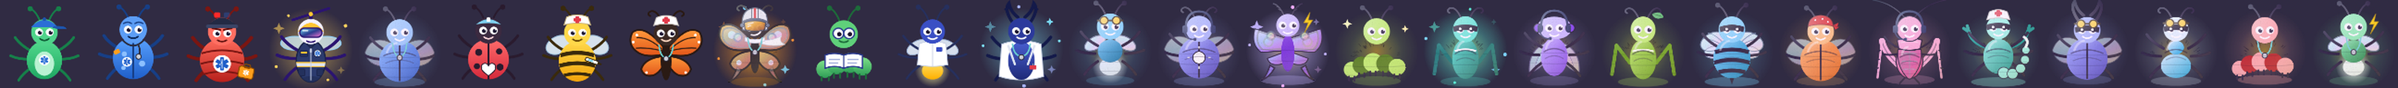
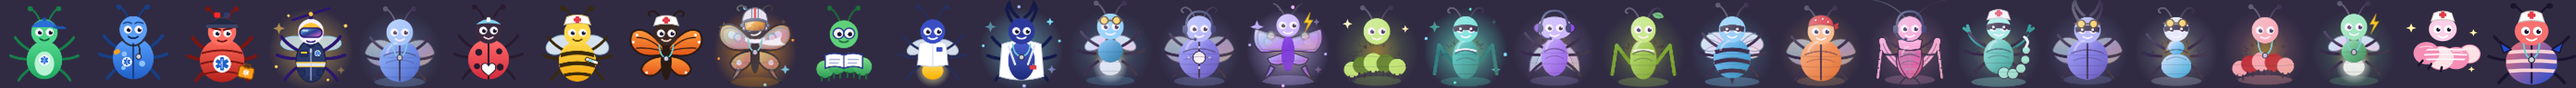
Instructor page: Nursing school and Paramedic to RN get their own bugs

diff --git a/instructor/index.html b/instructor/index.html
@@ -96,9 +96,9 @@ tr.clk{cursor:pointer}tr.clk:hover td{background:var(--surface2)}
 .dimtabs button.on{background:var(--teal);color:#06231f;border-color:var(--teal)}
 .chart .bar i.mid{background:var(--warn)}.chart .bar i.low{background:var(--bad)}
 .lvsum{display:flex;align-items:center;gap:12px;cursor:pointer;list-style:none}.lvsum::-webkit-details-marker{display:none}.lvsum>span:nth-child(2){flex:1;display:flex;flex-direction:column;gap:2px}.lvchg{font-weight:700;color:var(--accent,#7c5cff);font-size:14px}
-.lvimg{display:inline-block;width:56px;height:56px;flex:none;background:url(lvbugs.png) no-repeat;background-size:1512px 56px;border-radius:12px}
+.lvimg{display:inline-block;width:56px;height:56px;flex:none;background:url(lvbugs.png?v=29) no-repeat;background-size:1624px 56px;border-radius:12px}
 .lvgrp{margin:14px 0 4px;font-size:12px;font-weight:800;text-transform:uppercase;letter-spacing:.05em;color:var(--muted,#777)}.lvgrid{display:grid;grid-template-columns:repeat(auto-fill,minmax(112px,1fr));gap:8px}
-.lvt{display:flex;flex-direction:column;align-items:center;gap:2px;padding:8px 6px;border:1.5px solid var(--line,#ddd);border-radius:12px;background:transparent;color:inherit;font:inherit;cursor:pointer;text-align:center}.lvt b{font-size:13px}.lvt small{font-size:11px;color:var(--muted,#777)}.lvt[aria-pressed=true]{border-color:var(--accent,#7c5cff);box-shadow:0 0 0 2px var(--accent,#7c5cff) inset}.lvt .lvimg{width:64px;height:64px;background-size:1728px 64px}
+.lvt{display:flex;flex-direction:column;align-items:center;gap:2px;padding:8px 6px;border:1.5px solid var(--line,#ddd);border-radius:12px;background:transparent;color:inherit;font:inherit;cursor:pointer;text-align:center}.lvt b{font-size:13px}.lvt small{font-size:11px;color:var(--muted,#777)}.lvt[aria-pressed=true]{border-color:var(--accent,#7c5cff);box-shadow:0 0 0 2px var(--accent,#7c5cff) inset}.lvt .lvimg{width:64px;height:64px;background-size:1856px 64px}
 input[type=checkbox],input[type=radio]{width:auto;padding:0;flex:none}label:has(>input[type=checkbox]),label:has(>input[type=radio]){flex-direction:row;align-items:center;gap:10px}
 .boardsw{display:flex;flex-wrap:wrap;align-items:center;gap:6px 12px;margin:6px 0 4px;padding:12px 14px;border:1px solid var(--line,#ddd);border-radius:12px}.boardsw label{flex:1 1 220px;min-width:0;flex-direction:row;align-items:center;gap:12px;color:var(--ink);font-size:15px;cursor:pointer}.boardsw input{appearance:none;-webkit-appearance:none;position:relative;width:50px;height:30px;border-radius:99px;background:var(--line);border:0;padding:0;flex:none;cursor:pointer;transition:background .15s}.boardsw input::after{content:"";position:absolute;top:3px;left:3px;width:24px;height:24px;border-radius:50%;background:#fff;box-shadow:0 1px 3px rgba(0,0,0,.3);transition:transform .15s}.boardsw input:checked{background:var(--good,#16a34a)}.boardsw input:checked::after{transform:translateX(20px)}.boardsw input:focus-visible{outline:2px solid var(--accent);outline-offset:2px}.boardsw #boardSwMsg{flex:1 1 100%}
 .board td.rk{font-weight:700;width:46px}
@@ -1992,8 +1992,8 @@ body.embed .mxhead .adm{display:none}
     });
   })();
   /* class level picker */
-  var LV_ORDER = ["emt","aemt","paramedic","flight","cp","cna","lvn","rn","flightrn","ms1","ms3","intern","rt","ct","mri","nm","ir","mh","diet","rrt","pt","slp","surg","anes","dent","phleb","ekg"];
-  var LV_BUG = { emt: "Rookie Bug", aemt: "Beetle Medic", paramedic: "Siren Beetle", flight: "Sky Hornet", cp: "Armor Beetle", cna: "Helper Ladybug", lvn: "Busy Bee", rn: "Monarch Nurse", flightrn: "Night Monarch", ms1: "Bookworm Scholar", ms3: "Firefly Clerk", intern: "Stag Beetle Doc", rt: "X-Ray Firefly", ct: "Spiral Scarab", mri: "Magnet Moth", nm: "Glow Worm", ir: "Cath Cricket", mh: "Calm Cicada", diet: "Garden Grasshopper", rrt: "Breathing Bee", pt: "Gym Beetle", slp: "Echo Cricket", surg: "Scalpel Scorpion", anes: "Ether Earwig", dent: "Enamel Ant", phleb: "Vessel Vine-Borer", ekg: "Pulse Beetle" };
+  var LV_ORDER = ["emt","aemt","paramedic","flight","cp","cna","lvn","rn","flightrn","ms1","ms3","intern","rt","ct","mri","nm","ir","mh","diet","rrt","pt","slp","surg","anes","dent","phleb","ekg","rnschool","rnbridge"];
+  var LV_BUG = { emt: "Rookie Bug", aemt: "Beetle Medic", paramedic: "Siren Beetle", flight: "Sky Hornet", cp: "Armor Beetle", cna: "Helper Ladybug", lvn: "Busy Bee", rn: "Monarch Nurse", flightrn: "Night Monarch", ms1: "Bookworm Scholar", ms3: "Firefly Clerk", intern: "Stag Beetle Doc", rt: "X-Ray Firefly", ct: "Spiral Scarab", mri: "Magnet Moth", nm: "Glow Worm", ir: "Cath Cricket", mh: "Calm Cicada", diet: "Garden Grasshopper", rrt: "Breathing Bee", pt: "Gym Beetle", slp: "Echo Cricket", surg: "Scalpel Scorpion", anes: "Ether Earwig", dent: "Enamel Ant", phleb: "Vessel Vine-Borer", ekg: "Pulse Beetle", rnschool: "Baby Nurse Bug", rnbridge: "Bridge Beetle" };
   var LV_GROUPS = [["Prehospital", ["emt","aemt","paramedic","flight","cp"]], ["Nursing", ["cna","lvn","rn","rnschool","rnbridge","flightrn"]], ["Medical school", ["ms1","ms3","intern"]], ["Imaging", ["rt","ct","mri","nm","ir"]], ["Allied health", ["mh","diet","rrt","pt","slp","surg","anes","dent","phleb","ekg"]]];
   var LV_SHORT = { rnschool: "Nursing school", rnbridge: "Paramedic to RN", emt: "EMT", aemt: "AEMT", paramedic: "Paramedic", flight: "Flight Paramedic", cp: "Community Paramedic", cna: "CNA", lvn: "LVN / LPN", rn: "RN", flightrn: "Flight Nurse", ms1: "MS1–MS2", ms3: "MS3–MS4", intern: "Intern", rt: "Radiologic Tech", ct: "CT Tech", mri: "MRI Tech", nm: "Nuclear Medicine", ir: "Interventional Radiology", mh: "Mental Health", diet: "Dietitian", rrt: "Respiratory Therapist", pt: "PT / OT", slp: "Speech-Language", surg: "Surgical Tech", anes: "Anesthesia Tech", dent: "Dental Hygiene", phleb: "Phlebotomy", ekg: "EKG Tech" };
   function lvPos(k, size) { var i = LV_ORDER.indexOf(k); return i < 0 ? "" : "background-position:" + (-i * size) + "px 0"; }
